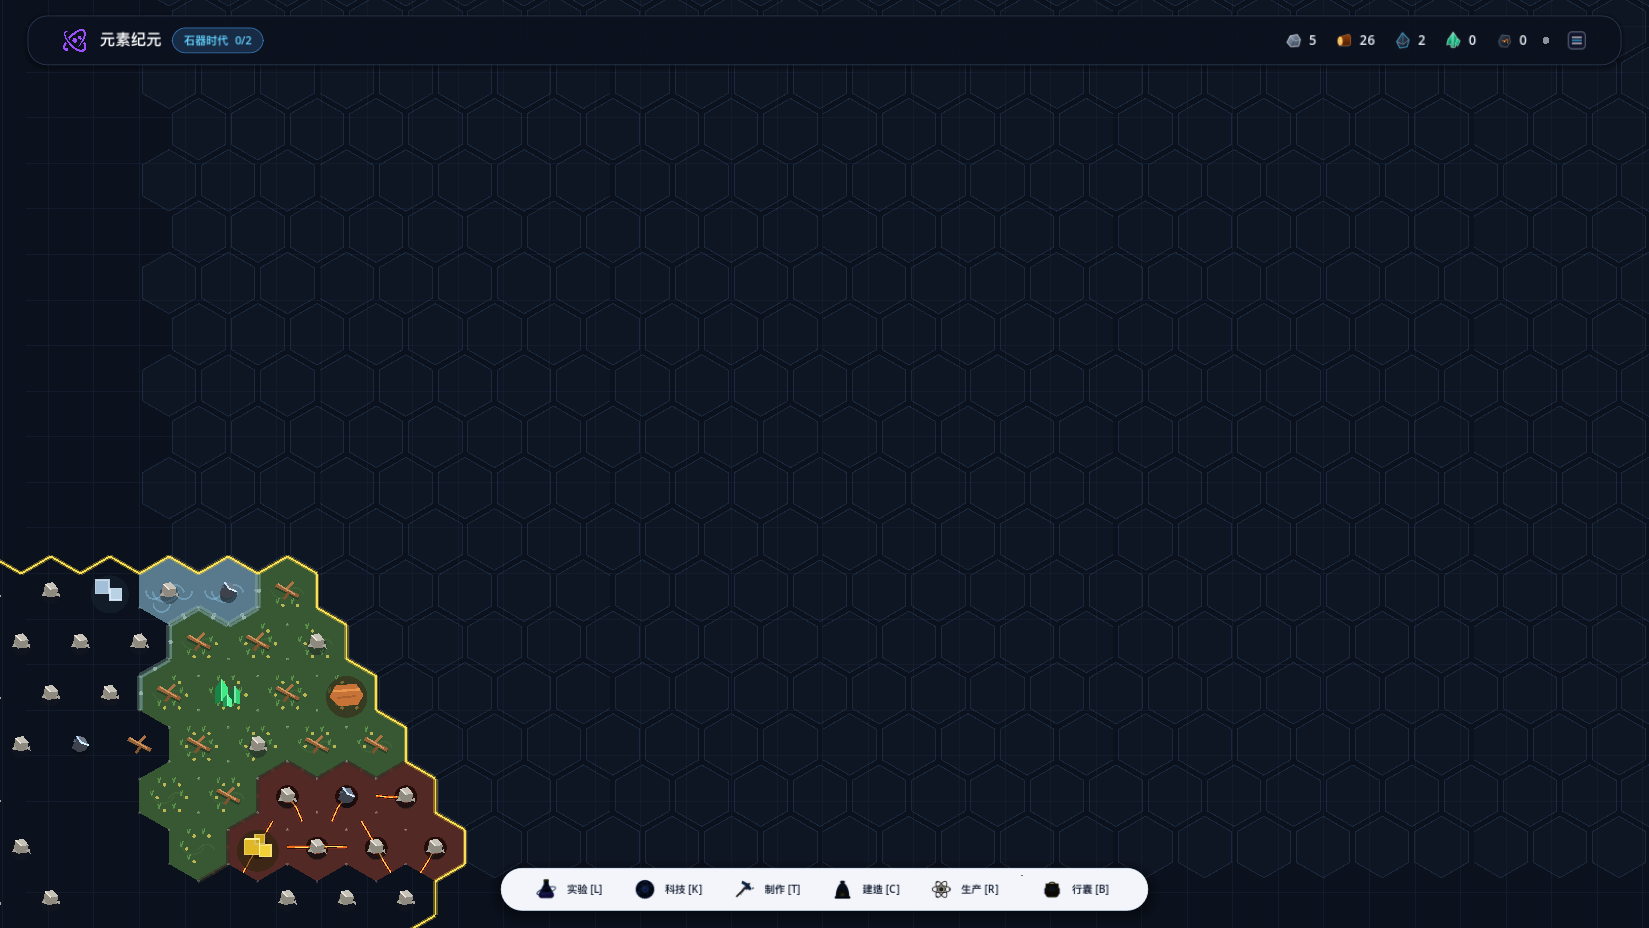
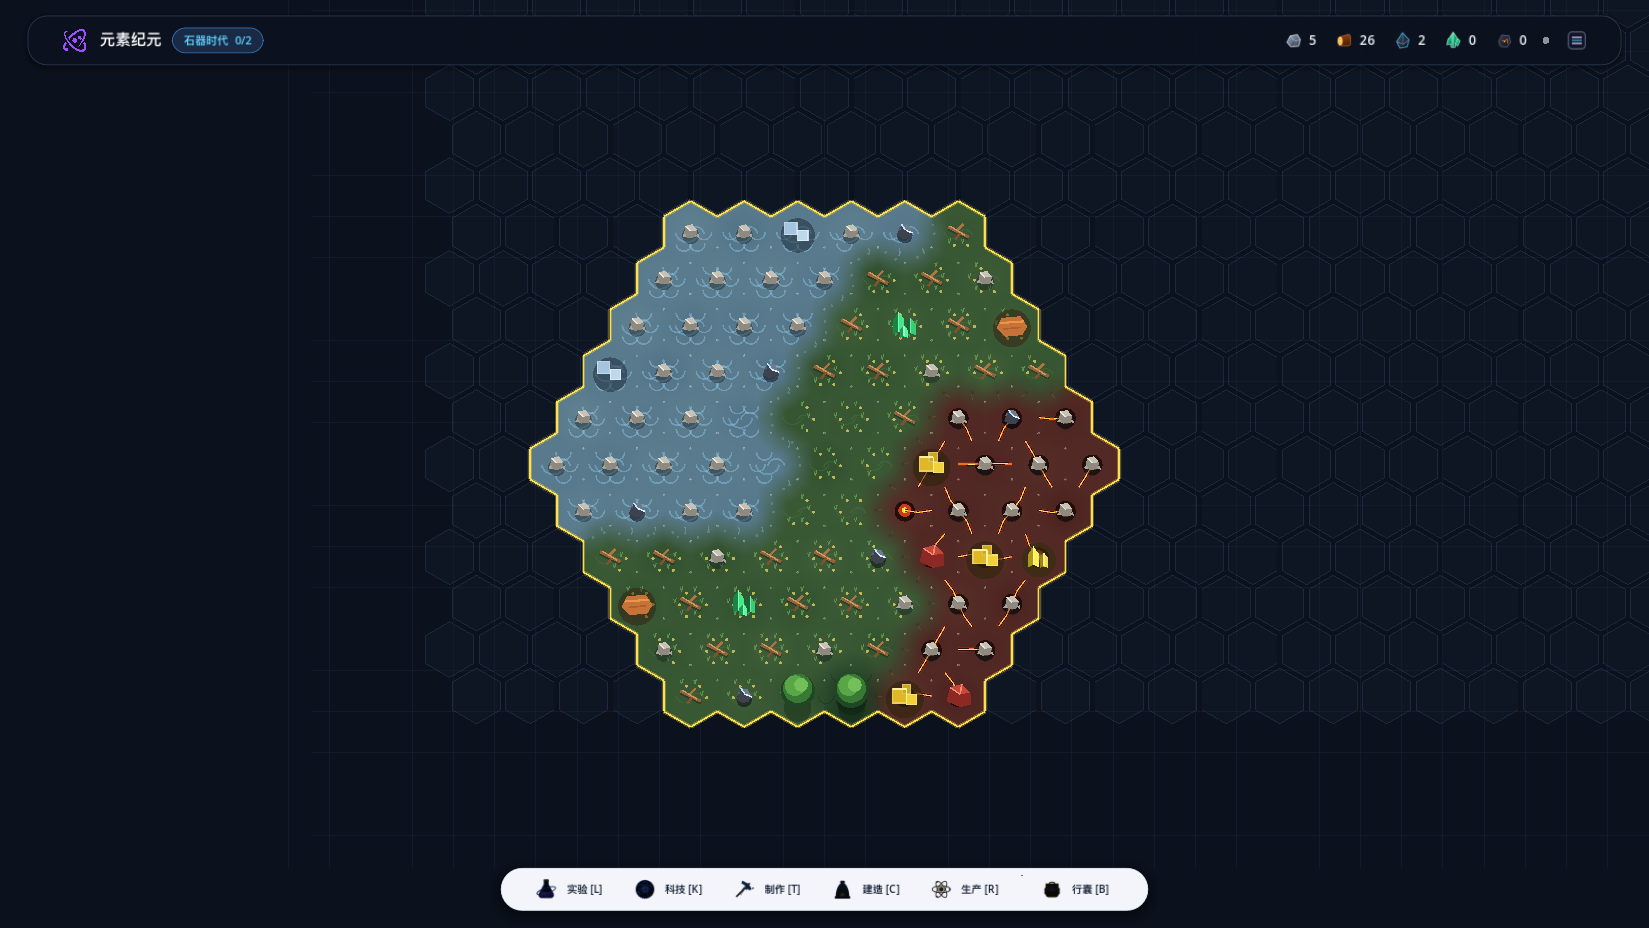
feat: implement smooth Gouraud gradient transitions and natural biome blending

diff --git a/AGENTS.md b/AGENTS.md
@@ -598,6 +598,24 @@
    - 实时读取最近存档槽位元数据，悬浮卡片展示当前时代、累计时长、保存时间与一键进入快捷提示；
    - 新玩家则展示宏伟的《元素宏图》初临序言，极大提升开篇代入感。
 
+### 2.27 自然群系平滑渐变色彩过渡与无缝连通地貌重构 (2026-10-05)
+
+根据用户关于「感觉群系之间的过渡还是很生硬，可以更加自然一点吗？最好是逐渐变化」的深层视觉要求，对六边形大世界地貌层（`terrain_layer.gd`）进行了彻底的渐变底色与自然有机融合算法升级：
+
+1. **六边形 Gouraud 硬件顶点色彩渐变过渡系统 (`_draw_gradient_biome_hex`)**：
+   - **核心多边形与过渡裙边分离**：将六边形划分为内径 38% 的**中心核心纯色多边形**（保留本群系标志性色彩基调与微观地质微扰动）与外圈 62% 的**放射状三角扇面过渡裙边**；
+   - **完全数学对称的共享交界色彩插值**：
+     - **边中点双向插值**：每条共享边中点取当前群系与邻居群系的严格 50% 对称加权混合（`m_col = (base_col + col_e) * 0.5`），确保相邻六边形在相交边上计算出完全一致的色彩，0% 色差跳跃；
+     - **三向交界顶点插值**：六边形顶点取 3 个相交地块色彩的严格平均（`v_col = (base_col + col_prev + col_curr) / 3.0`），保证三向交界处色彩完全光滑连续；
+   - **18 扇面硬件 Gouraud 渐变渲染**：使用 Godot 4 的 `draw_polygon(PackedVector2Array, PackedColorArray)` 对过渡裙边施加硬件级双线性色彩插值，实现从原野青绿至火山焦黑/深褐、盐湖淡蓝至草甸青绿的宏观无缝平滑过渡。
+2. **异群系交界微观特征散落系统 (`_draw_natural_biome_transition`)**：
+   - 彻底废除旧版生硬的高对比度厚白线，替换为柔和细腻的自然地貌微观特征：
+     - **盐湖 ⇄ 陆地**：水域侧呈现极轻柔的微弧水波纹（`Color(0.65, 0.85, 0.98, 0.28)`），陆地侧散落微小湿润卵石斑；
+     - **火山 ⇄ 陆地**：火山侧呈现微弱地表温热发丝裂纹，陆地侧呈现极淡的落灰炭黑斑；
+     - **森林 ⇄ 原野**：林缘处呈现柔和树荫半弧投影，增强群系交界处的层次与立体感。
+3. **视口包围盒与摄像机平滑同步修复**：
+   - 重构了视口包围盒计算逻辑，基于 `world.camera.get_screen_center_position()` 与动态缩放边界计算，并在截图时重置平滑延迟（`camera.reset_smoothing()`），彻底解决了极端情况下视口左侧/下侧未被绘制的问题，实现全屏暗色瓦片与发光金边领地的 100% 完整覆盖。
+
 ---
 
 ## 3. 架构设计规范与数据流动
